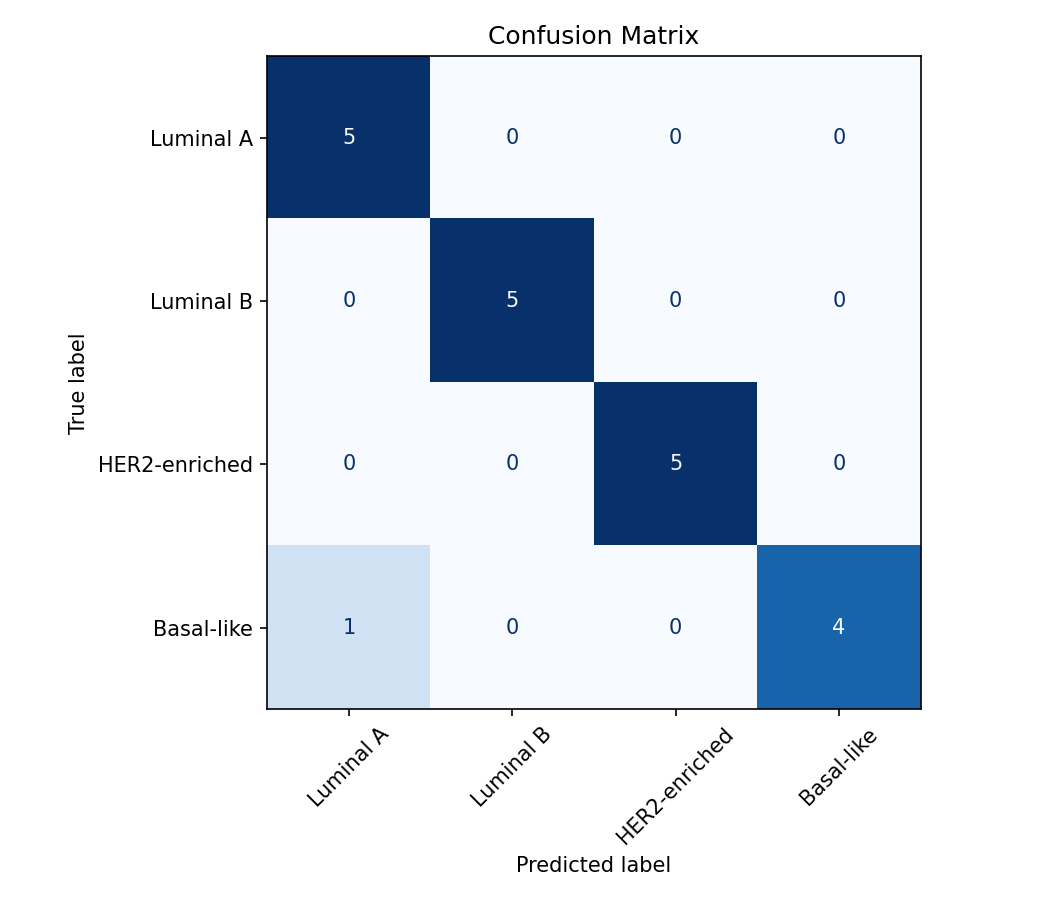
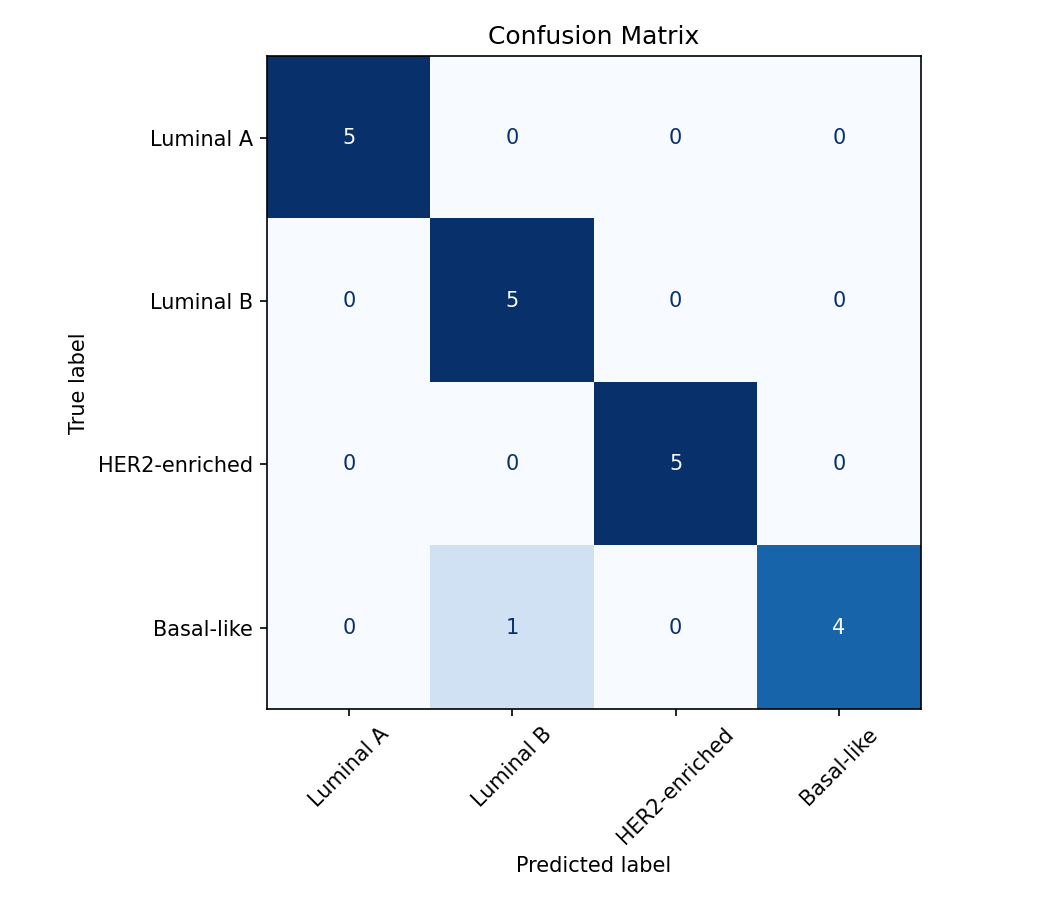
Build Streamlit subtype prediction app

Changed region(s): [[0.2438, 0.5911, 0.579, 0.8089]]

diff --git a/app.py b/app.py
@@ -1,0 +1,140 @@
+"""Streamlit app for the cancer subtype classification portfolio demo."""
+
+from __future__ import annotations
+
+from pathlib import Path
+
+import pandas as pd
+import streamlit as st
+
+from src.inference import MODEL_PATH, load_model, predict_subtypes
+
+
+DEMO_DATA_PATH = Path("data") / "sample_input.csv"
+SAMPLE_ID_COL = "sample_id"
+LABEL_COL = "subtype"
+
+
+st.set_page_config(
+    page_title="Cancer Subtype Classification Demo",
+    layout="wide",
+)
+
+
[email redacted]_resource
+def get_model():
+    """Load and cache the trained model pipeline."""
+
+    return load_model(MODEL_PATH)
+
+
[email redacted]_data
+def load_demo_data() -> pd.DataFrame:
+    """Load the bundled synthetic demo sample CSV."""
+
+    if not DEMO_DATA_PATH.exists():
+        raise FileNotFoundError(f"Demo data file not found: {DEMO_DATA_PATH}")
+    return pd.read_csv(DEMO_DATA_PATH)
+
+
+def read_uploaded_csv(uploaded_file) -> pd.DataFrame:
+    """Read an uploaded CSV with clear Streamlit-facing errors."""
+
+    if uploaded_file is None:
+        raise ValueError("Please upload a CSV file.")
+
+    try:
+        df = pd.read_csv(uploaded_file)
+    except pd.errors.EmptyDataError as exc:
+        raise ValueError("Uploaded CSV is empty.") from exc
+    except pd.errors.ParserError as exc:
+        raise ValueError("Uploaded CSV could not be parsed.") from exc
+
+    if df.empty:
+        raise ValueError("Uploaded CSV contains no rows.")
+
+    return df
+
+
+def show_prediction_results(input_df: pd.DataFrame, model) -> None:
+    """Run inference and render labels, probabilities, and chart."""
+
+    predicted_labels, probabilities = predict_subtypes(input_df, model=model)
+
+    results = pd.DataFrame({"predicted_subtype": predicted_labels})
+    st.subheader("Predicted Subtype")
+    st.dataframe(results, width="stretch")
+
+    st.subheader("Class Probability Table")
+    st.dataframe(probabilities, width="stretch")
+
+    st.subheader("Probability Bar Chart")
+    if len(probabilities) == 1:
+        st.bar_chart(probabilities.iloc[0])
+    else:
+        st.bar_chart(probabilities)
+
+
+def main() -> None:
+    """Render the Streamlit app."""
+
+    st.title("Cancer Subtype Classification Demo")
+    st.info(
+        "This is a portfolio demo using synthetic demo data. "
+        "It is not a clinical diagnostic tool and should not be used for "
+        "medical decisions."
+    )
+
+    try:
+        model = get_model()
+    except FileNotFoundError:
+        st.warning("No trained model was found.")
+        st.code("python src/train.py --demo", language="bash")
+        st.stop()
+    except Exception as exc:
+        st.error(f"Could not load the trained model: {exc}")
+        st.stop()
+
+    source = st.radio(
+        "Input source",
+        options=["Use demo sample", "Upload CSV"],
+        horizontal=True,
+    )
+
+    try:
+        if source == "Use demo sample":
+            demo_df = load_demo_data()
+            if SAMPLE_ID_COL in demo_df.columns:
+                sample_options = demo_df[SAMPLE_ID_COL].astype(str).tolist()
+                selected_sample = st.selectbox("Demo sample", sample_options)
+                input_df = demo_df.loc[
+                    demo_df[SAMPLE_ID_COL].astype(str) == selected_sample
+                ].head(1)
+            else:
+                input_df = demo_df.head(1)
+
+            display_cols = [
+                col
+                for col in [SAMPLE_ID_COL, LABEL_COL]
+                if col in input_df.columns
+            ]
+            if display_cols:
+                st.caption("Synthetic demo sample")
+                st.dataframe(input_df[display_cols], width="stretch")
+
+        else:
+            uploaded_file = st.file_uploader("Upload gene expression CSV", type=["csv"])
+            if uploaded_file is None:
+                st.stop()
+            input_df = read_uploaded_csv(uploaded_file)
+            st.caption("Uploaded input preview")
+            st.dataframe(input_df.head(), width="stretch")
+
+        show_prediction_results(input_df, model)
+
+    except Exception as exc:
+        st.error(str(exc))
+
+
+if __name__ == "__main__":
+    main()

diff --git a/src/train.py b/src/train.py
@@ -29,6 +29,7 @@ from src.preprocessing import (  # noqa: E402
 
 
 RANDOM_SEED = 42
+DEMO_N_GENES = 12
 MODEL_PATH = Path("models") / "best_model.joblib"
 
 
@@ -51,7 +52,7 @@ def train_demo() -> dict[str, object]:
 
     expression_df, labels_df = generate_synthetic_demo_dataset(
         n_samples=80,
-        n_genes=40,
+        n_genes=DEMO_N_GENES,
         random_state=RANDOM_SEED,
     )
     X, y = align_expression_and_labels(expression_df, labels_df)